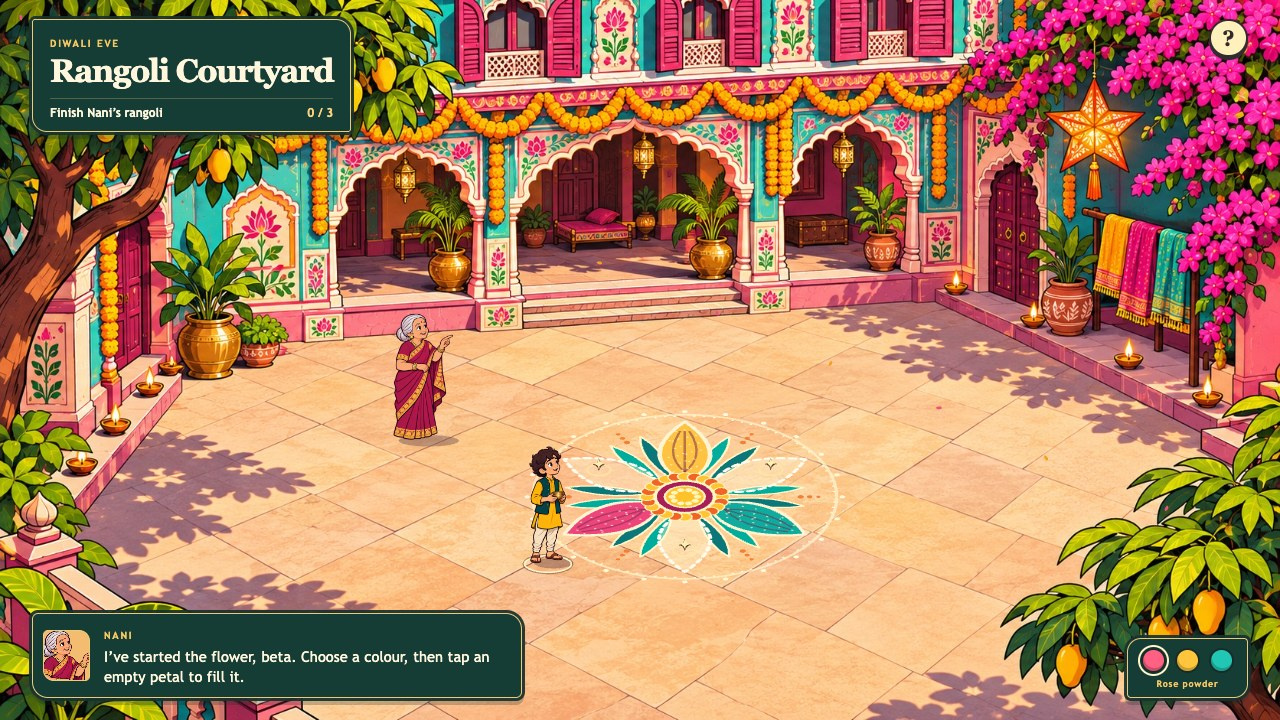
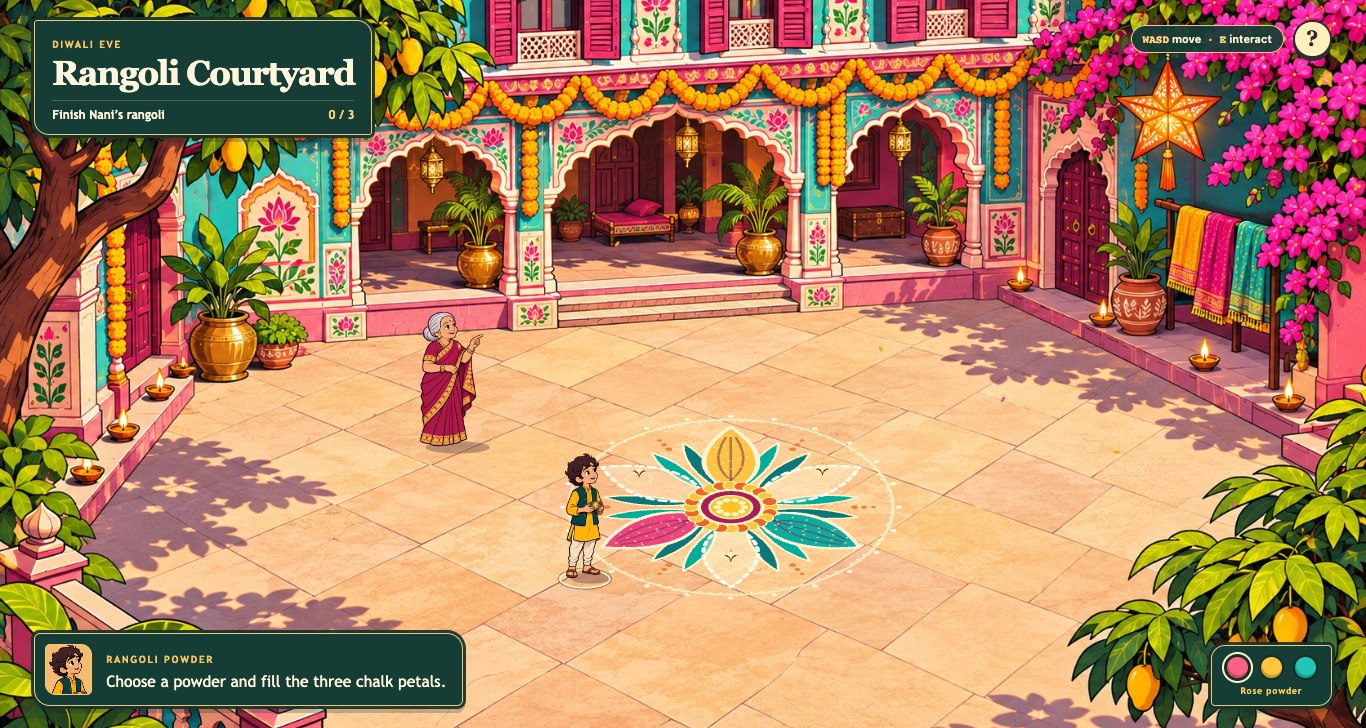
Carry and hang a marigold garland during the courtyard homecoming

diff --git a/diwali-arcade/courtyard/game.js b/diwali-arcade/courtyard/game.js
@@ -14,15 +14,22 @@
   const stage = el("stage"), guide = el("guide");
   const player = {x:691,y:689,face:1,walking:false};
   const friend = {x:610,y:700};
-  const road = [{x:989,y:693},{x:652,y:527},{x:805,y:346}];
+  const basket={x:976,y:693}, leftPost={x:681,y:423}, rightPost={x:923,y:423}, gate={x:804,y:346};
+  const homecoming=[
+    {...basket,label:"Pick up the marigold garland",goal:"Collect the marigold garland"},
+    {...leftPost,label:"Hang the first end",goal:"Hang one end on the left post"},
+    {...rightPost,label:"Hang the second end",goal:"Stretch the garland to the right post"},
+    {...gate,label:"Walk through the welcome gate",goal:"Walk under the garland together"}
+  ];
   let phase, color, count, destination, actionTarget, painting, targetList, effect, visited;
   let t=0, previous=0, width=0, height=0, scale=1, dx=0, dy=0, gait=0;
   const clamp=(v,lo,hi)=>Math.max(lo,Math.min(hi,v));
   const ease=v=>1-Math.pow(1-v,3);
-  function setLine(text, speaker="NANI") {
-    el("speaker").textContent = speaker;
+  function setLine(text) {
+    const story=phase==="story"||phase==="end";
+    el("speaker").textContent = story ? (phase==="end"?"HOMECOMING":"MARIGOLD GARLAND") : (phase==="diya"?"THE FIRST DIYA":"RANGOLI POWDER");
     el("speech").textContent = text;
-    el("portrait").style.backgroundImage = 'url('+ (speaker==="RAMA" ? "rama" : speaker==="AARAV" ? "child" : "nani") +'.png)';
+    el("portrait").style.backgroundImage = 'url('+ (story ? "rama" : "child") +'.png)';
   }
   function selectColor(index) {
     color=index;
@@ -39,12 +46,12 @@
     }
     el("chapter").textContent="DIWALI EVE";el("title").textContent="Rangoli Courtyard";
     el("goal").textContent="Finish Nani’s rangoli";el("count").textContent="0 / 3";el("tools").hidden=false;el("action").hidden=true;
-    setLine("I’ve started the flower, beta. Choose a colour, then tap an empty petal to fill it.");selectColor(0);updateTargets();
+    setLine("Choose a powder and fill the three chalk petals.");selectColor(0);updateTargets();
   }
   function updateTargets(){
     if(phase==="paint") targetList=petals.filter(p=>!p.fill).map(p=>({x:p.x,y:p.y,id:p.id,label:"Fill petal "+(p.id+1),size:78}));
     else if(phase==="diya") targetList=[{x:cx,y:cy,id:"diya",label:"Light the diya",size:95}];
-    else if(phase==="story") targetList=[{...road[visited],id:"way",label:["Visit the first lights","Meet the neighbours","Enter the gate"][visited],size:108}];
+    else if(phase==="story") targetList=[{...homecoming[visited],id:"garland",size:96}];
     else targetList=[];
     el("targets").replaceChildren();
     targetList.forEach(place=>{
@@ -80,14 +87,15 @@
       petal.fill=colors[color]; painting={petal,elapsed:0}; updateTargets();
     } else if(phase==="diya"){beginStory()}
     else if(phase==="story"){
-      const p=road[visited];burst(p.x,p.y,"#ffd56e",28);visited++;
-      if(visited===3){
+      const p=homecoming[visited];burst(p.x,p.y-25,"#ffd56e",30);visited++;
+      if(visited===homecoming.length){
         phase="end";el("goal").textContent="Home at last";el("count").textContent="✦";
-        setLine("So that’s who the lights are for, Nani. Can we put one by our own gate?","AARAV");
+        setLine("Rama, Sita and Lakshmana enter Ayodhya beneath your marigolds.");
         el("action").hidden=false;el("action").textContent="Make another rangoli";effect=1;
       }else{
-        const lines=["There’s a lamp outside every doorway. Somewhere beyond them is the home I remember.","I can hear people calling our names. Sita, Lakshmana, come with me through the gate."];
-        setLine(lines[visited-1],"RAMA");el("count").textContent=visited+" / 3";
+        const lines=["Carry the flowers to the left post.","One end is tied. Carry the loose end across to the other post.","Lead Sita and Lakshmana beneath the garland."];
+        setLine(lines[visited-1]);el("goal").textContent=homecoming[visited].goal;
+        el("count").textContent=visited+" / 4";
       }
       updateTargets();
     }
@@ -96,14 +104,14 @@
     const closest=[...targetList].sort((a,b)=>dist(player,a)-dist(player,b))[0];
     if(!closest)return;
     if(dist(player,closest)<105){act(closest.id);destination=null;actionTarget=null}
-    else setLine(phase==="story"?"Walk to the next glowing lamp on the road.":"Walk closer to a glowing mark, then press E.",phase==="story"?"RAMA":"NANI");
+    else setLine(phase==="story"?"Walk to the marked object, then press E.":"Walk closer to a glowing mark, then press E.");
   }
   function beginStory(){
     phase="story";visited=0;destination=null;actionTarget=null;effect=1;
     Object.assign(player,{x:779,y:774,face:1});Object.assign(friend,{x:657,y:805});
     el("chapter").textContent="NANI’S RAMAYANA";el("title").textContent="The homecoming";
-    el("goal").textContent="Follow the lamps as Rama";el("count").textContent="0 / 3";el("action").hidden=true;
-    setLine("In our family’s Diwali story, Ayodhya lit lamps for Rama, Sita and Lakshmana. Step into Rama’s shoes and follow the lights home.");
+    el("goal").textContent=homecoming[0].goal;el("count").textContent="0 / 4";el("action").hidden=true;
+    setLine("Ayodhya’s lamps welcome Rama, Sita and Lakshmana home. As Rama, lift the marigolds from the basket.");
     updateTargets();
   }
   const dist=(a,b)=>Math.hypot(a.x-b.x,a.y-b.y);
@@ -136,11 +144,11 @@
       if(p.amount===1){
         painting=null;count++;burst(p.x,p.y,p.fill,20);
         el("count").textContent=count+" / 3";
-        if(count<3)setLine(count===1?"Look how that colour sits beside mine. What shall we put in the next petal?":"One last petal. Then there’s room in the middle for our little lamp.");
+        if(count<3)setLine(count===1?"Two chalk petals to fill. Choose their colours.":"Fill the last petal, then light the diya.");
         else{
           phase="diya";el("goal").textContent="Light the centre diya";el("count").textContent="✧";el("tools").hidden=true;
           el("action").hidden=false;el("action").textContent="Light the diya";
-          setLine("We draw rangoli at our threshold to welcome our guests. Light the diya in the middle and I’ll tell you about another welcome.");
+          setLine("The rangoli welcomes guests at the doorstep. Light the lamp at its centre.");
         }
         updateTargets();
       }
@@ -219,6 +227,29 @@
     if(on){const flick=Math.sin(t*8+x)*2;ctx.fillStyle="#ffb832";ctx.beginPath();ctx.moveTo(2,-31+flick);ctx.bezierCurveTo(-19,-3,-1,-3,1,-4);ctx.quadraticCurveTo(11,-8,2,-31+flick);ctx.fill();ellipse(0,-10,3.4,6.5,"#fffbaf")}else{ellipse(3,-6,3,2,"#514431")}
     ctx.restore();
   }
+  function flowers(start,end,sag=30){
+    const n=clamp(Math.round(dist(start,end)/7),8,40);
+    ctx.save();ctx.beginPath();ctx.moveTo(start.x,start.y);ctx.quadraticCurveTo((start.x+end.x)/2,(start.y+end.y)/2+sag*2,end.x,end.y);
+    ctx.strokeStyle="#773e21";ctx.lineWidth=5;ctx.stroke();
+    for(let i=0;i<=n;i++){
+      const u=i/n,x=start.x+(end.x-start.x)*u,y=start.y+(end.y-start.y)*u+4*u*(1-u)*sag;
+      ellipse(x,y,5,5,i%4===0?"#e95425":"#ffab19","#bc5921",.8);ellipse(x-1.2,y-1.4,2.3,2.1,"#ffdb52");
+      if(i%5===0)ellipse(x,y+5,2.7,3.4,"#148264");
+    }
+    ctx.restore();
+  }
+  function garlandScene(){
+    for(const p of [leftPost,rightPost]){
+      ellipse(p.x,p.y+2,14,4,"#41213366");
+      ctx.fillStyle="#713930";ctx.fillRect(p.x-5,p.y-90,10,90);ctx.fillStyle="#e2a245";ctx.fillRect(p.x-3,p.y-90,3,90);
+      ellipse(p.x,p.y-91,6,7,"#ffc846","#a95920",2);
+    }
+    ellipse(basket.x,basket.y,30,8,"#41213366");ellipse(basket.x,basket.y-10,28,15,"#b97131","#774023",3);
+    ellipse(basket.x,basket.y-17,28,8,"#805623","#f8c66d",2);
+    if(!visited)flowers({x:basket.x-21,y:basket.y-23},{x:basket.x+22,y:basket.y-23},8);
+    if(visited>=3)flowers({x:leftPost.x,y:leftPost.y-91},{x:rightPost.x,y:rightPost.y-91},35);
+    marker(homecoming[visited]?.x||gate.x,homecoming[visited]?.y||gate.y,true);
+  }
   function marker(x,y,active=false){
     const bob=Math.sin(t*3.7+x)*2.4;
     ellipse(x,y,active?25:15,active?9:7,null,"#ffe9a4b8",2);
@@ -243,9 +274,7 @@
     else{ctx.fillStyle="#dfb277";ctx.fillRect(0,0,W,H)}
     const sprites=[];
     if(story){
-      road.forEach((p,i)=>{
-        if(i<visited||i===visited){lamp(p.x,p.y,.65+(p.y-342)/600,true);if(i===visited)marker(p.x,p.y-30,true)}
-      });
+      garlandScene();
       const size=100+(player.y-340)*.26;
       sprites.push({y:friend.y,fn:()=>sprite("companions",friend.x,friend.y,size*.95,player.face,player.walking)});
       sprites.push({y:player.y,fn:()=>sprite("rama",player.x,player.y,size,player.face,player.walking,true)});
@@ -260,6 +289,11 @@
       for(let i=0;i<12;i++){const x=(i*145+t*(8+i%3))%W,y=(i*61+t*(12+i%4))%H;ctx.save();ctx.translate(x+Math.sin(i+t)*12,y);ctx.rotate(t*.8+i);ellipse(0,0,3.5,1.8,i%2?"#f6a021":"#e8537f");ctx.restore()}
     }
     sprites.sort((a,b)=>a.y-b.y).forEach(s=>s.fn());
+    if(story&&(visited===1||visited===2)){
+      const hand={x:player.x+12*player.face,y:player.y-(100+(player.y-340)*.26)*.47};
+      const other=visited===1?{x:friend.x+12,y:friend.y-(100+(player.y-340)*.26)*.42}:{x:leftPost.x,y:leftPost.y-91};
+      flowers(other,hand,visited===1?19:25);
+    }
     for(const p of particles){ctx.globalAlpha=Math.min(1,p.life*2);ellipse(p.x,p.y,p.s,p.s,p.c)}ctx.globalAlpha=1;
     if(destination&&actionTarget===null)ellipse(destination.x,destination.y,14+Math.sin(t*7)*2,6,null,"#fff4cc",2);
     if(effect){ctx.fillStyle='rgba(255,225,127,'+(effect*.8)+')';ctx.fillRect(0,0,W,H)}

diff --git a/diwali-arcade/courtyard/index.html b/diwali-arcade/courtyard/index.html
@@ -15,14 +15,14 @@
   </div>
   <header>
     <div class="chapter"><span class="eyebrow" id="chapter">DIWALI EVE</span><h1 id="title">Rangoli Courtyard</h1><div class="progress"><span id="goal">Finish Nani’s rangoli</span><span id="count">0 / 3</span></div></div>
-    <button class="help" id="help" aria-label="Game controls" title="Game controls">?</button>
+    <div class="control-pair"><span class="key-hint"><kbd>WASD</kbd> move <b>·</b> <kbd>E</kbd> interact</span><button class="help" id="help" aria-label="Game controls" title="Game controls">?</button></div>
   </header>
   <footer>
-    <div class="line" aria-live="polite"><div class="portrait" id="portrait"></div><div><span class="eyebrow" id="speaker">NANI</span><p id="speech">I’ve started the flower, beta. Choose a colour, then tap an empty petal to fill it.</p></div></div>
+    <div class="line" aria-live="polite"><div class="portrait" id="portrait"></div><div><span class="eyebrow" id="speaker">RANGOLI POWDER</span><p id="speech">Choose a powder and fill the three chalk petals.</p></div></div>
     <div class="tools" id="tools"><div class="swatches" aria-label="Rangoli powder colours"><button data-color="0" aria-label="Rose powder" aria-pressed="true"></button><button data-color="1" aria-label="Turmeric powder" aria-pressed="false"></button><button data-color="2" aria-label="Peacock powder" aria-pressed="false"></button></div><span id="toolLabel">Rose powder</span></div>
     <button class="action" id="action" hidden>Light the diya</button>
   </footer>
-  <dialog id="guide"><h2>How to play</h2><p>Click or tap the ground to walk. Tap a marked petal or doorway to walk there and interact.</p><p>Use <b>WASD</b> or the <b>arrow keys</b> to walk, <b>E</b> to interact nearby, and <b>1–3</b> to choose a rangoli powder.</p><button id="close" class="action">Return to game</button></dialog>
+  <dialog id="guide"><h2>How to play</h2><p>Click or tap the ground to walk. Click a marked object to walk there and interact.</p><p>Use <b>WASD</b> or the <b>arrow keys</b> to walk, <b>E</b> to interact nearby, and <b>1–3</b> to choose a rangoli powder.</p><button id="close" class="action">Return to game</button></dialog>
 </main>
 <script src="game.js"></script>
 </body>

diff --git a/diwali-arcade/courtyard/game.css b/diwali-arcade/courtyard/game.css
@@ -13,3 +13,5 @@ header,footer{position:absolute;left:clamp(13px,2.5vw,42px);right:clamp(13px,2.5
 dialog{width:min(380px,90vw);padding:24px;border-radius:14px}dialog::backdrop{background:#071a20a8}dialog h2{font: bold 30px Georgia,serif;margin:0 0 14px}dialog p{font-size:15px;line-height:1.5}
 @container (max-height: 460px){.chapter{padding:7px 11px;min-width:170px}.chapter h1{font-size:20px;margin:3px 0 5px}.line{max-width:min(500px,75%);padding:5px 11px 5px 6px}.portrait{width:30px;height:36px}.line p{font-size:11px}.tools{padding:6px 9px}.eyebrow{font-size:8px}.progress{font-size:10px}}
 @container (max-aspect-ratio: 1/1){#stage{inset:0 0 82px;height:calc(100% - 82px)}footer{bottom:12px;align-items:center;gap:8px}.line{max-width:none;flex:1;padding:8px;gap:8px}.portrait{width:32px;height:39px}.line p{font-size:12px}.tools{padding:9px 7px}.swatches{gap:5px}.swatches button{width:19px;height:19px}.chapter{min-width:180px;padding:10px 13px}.action{font-size:12px;padding:7px 12px}}
+
+.control-pair{display:flex;align-items:center;gap:9px}.key-hint{color:#fff5d5;background:#153d36ed;border:1px solid #e9cb82;border-radius:16px;padding:6px 11px;font:600 11px system-ui,sans-serif}.key-hint b{margin:0 4px;color:#ebc780}.key-hint kbd{font:bold 11px monospace;color:#ffd57b}
